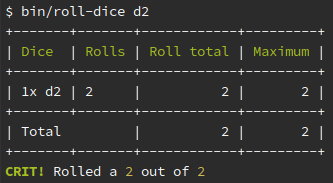
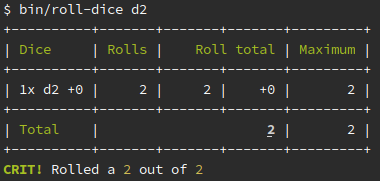
Support modifiers

diff --git a/README.md b/README.md
@@ -22,8 +22,8 @@ human readable dice notations:
 
 ![Interpreted](docs/interpreted.png)
 
-You will notice that one of the inputs is `3d6` and the last input is `6`. Under
-the hood this gets added up to `4d6`.
+You will notice that one of the inputs is `3d6+10` and the last input is `6`. Under
+the hood this gets added up to `4d6+10`.
 
 The notation is also very loose. That is why `2 D12` is interpreted as `2d12`.
 
